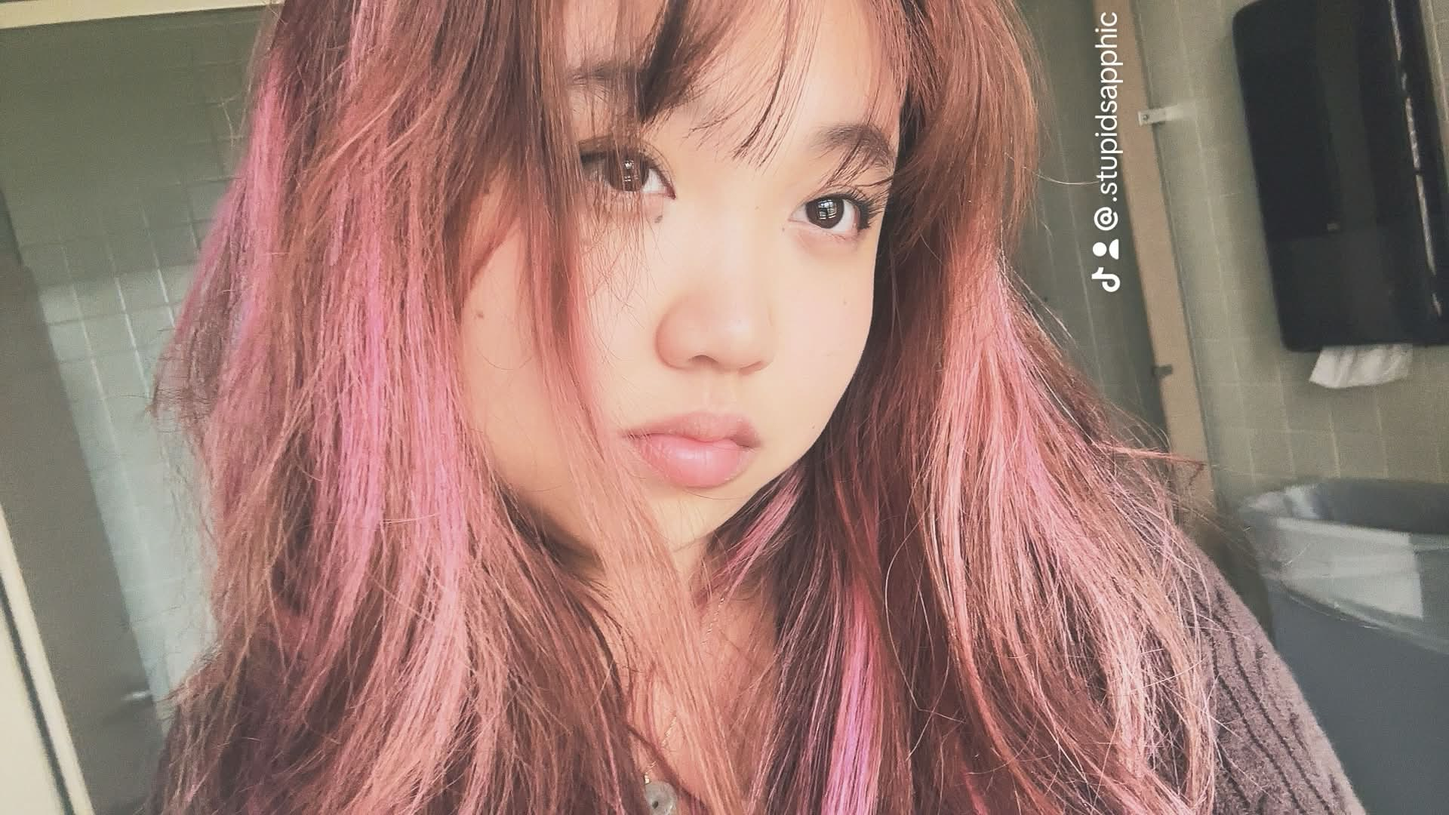
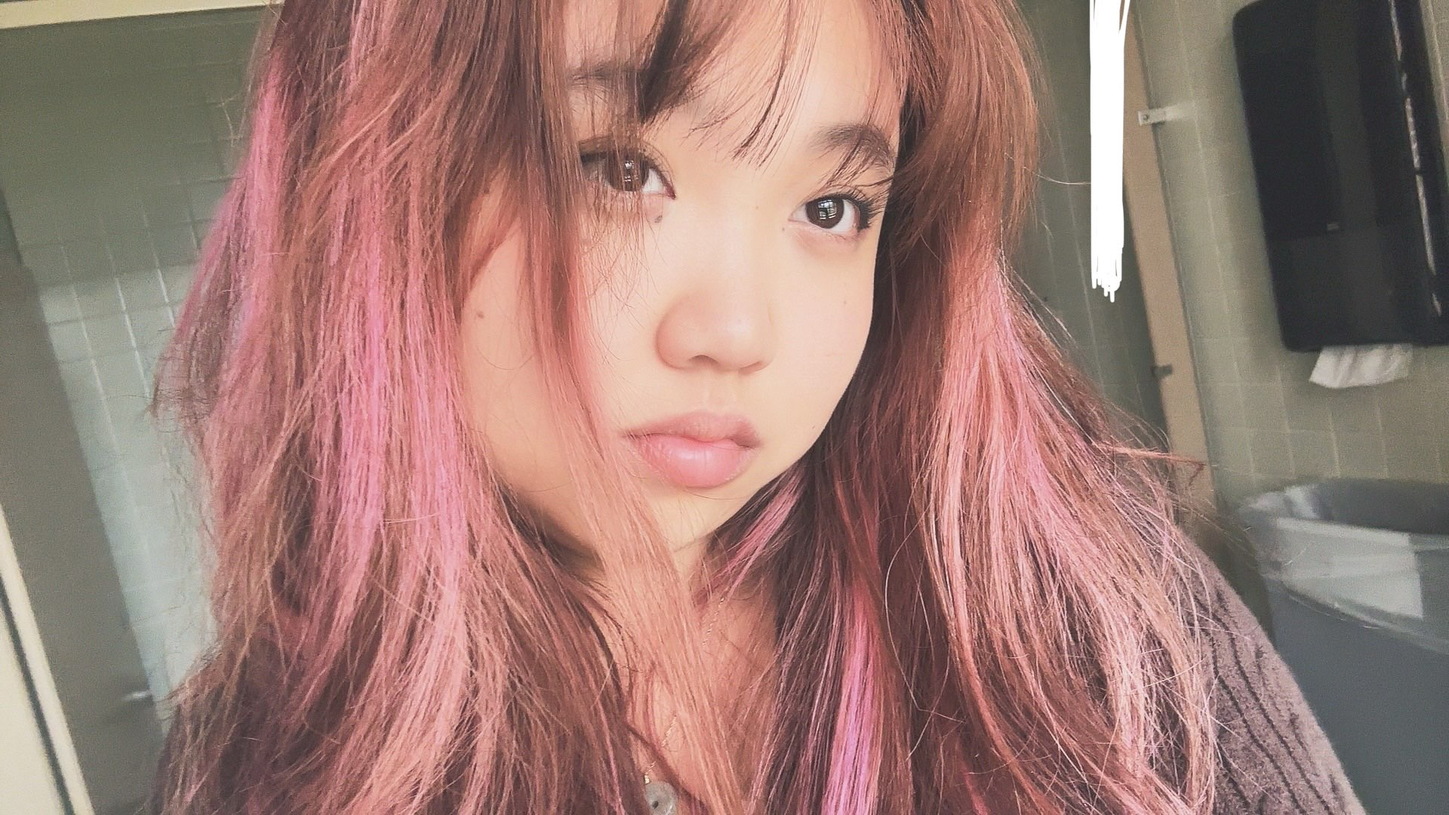
finished work 1: scam awareness website
writeup & images, changed popup to have clickthrough buttons instead of scrolling

Changed region(s): [[0.75, 0.0, 0.7812, 0.3667]]

diff --git a/assets/js/sketchbook.js b/assets/js/sketchbook.js
@@ -82,31 +82,134 @@
         ? el('p', { class: 'tags' }, project.tags.map(tag => el('span', {}, tag))) : null));
   }
 
+  // Chapter-style case study: keep each part compact, browsable and editable.
+  // w.media accepts { overview: [{src, alt, caption}], problem: [...], ... }.
+  // Older projects with only overview/problem/process/outcome still work.
   function openWriteup(project) {
     const w = project.writeup || {};
+    const chapters = [
+      ['overview', 'Overview', 'the big picture'],
+      ['problem', 'Problem', 'what we discovered'],
+      ['process', 'Process', 'from research to design'],
+      ['solution', 'Solution', 'the experience we designed'],
+      ['outcome', 'Outcomes', 'reflections & next steps']
+    ].filter(([key]) => Boolean(w[key] || (w.media && w.media[key]?.length)));
+    if (!chapters.length) chapters.push(['overview', 'Overview', 'a closer look']);
+
+    const resources = Object.entries(project.resources || {})
+      .filter(([key]) => ['proposal', 'presentation'].includes(key))
+      .map(([key, target]) => target
+        ? el('a', { class: 'writeup-resource hand', href: target,
+            ...( /^https?:\/\//i.test(target) ? {target: '_blank', rel: 'noopener noreferrer'} : {}) },
+            `view ${key} ↗`)
+        : el('span', { class: 'writeup-resource unavailable hand',
+            title: `Add the ${key} URL in portfolio-data.js` }, `view ${key} · link coming soon`));
+
+    const tabs = [];
+    const panels = [];
+    const progress = el('span', { class: 'case-counter', 'aria-live': 'polite' }, '01 / 05');
+    const progressBar = el('span', { class: 'case-progress-fill', 'aria-hidden': 'true' });
+    const backButton = el('button', { type: 'button', class: 'case-step-button hand' }, '← previous');
+    const nextButton = el('button', { type: 'button', class: 'case-step-button case-next hand' }, 'next page →');
+    const main = el('div', { class: 'case-main' });
+    let activeStep = 0;
+
+    const paragraphs = value => String(value || '').trim().split(/\n\s*\n/)
+      .map(text => text.trim()).filter(Boolean)
+      .map(text => el('p', { class: 'case-paragraph' }, text));
+
+    const imageNode = (im, index) => {
+      const item = typeof im === 'string' ? { src: im } : im || {};
+      const empty = () => el('div', { class: 'case-image-empty' },
+        el('img', { src: sticker('coral-flower'), alt: '', 'aria-hidden': 'true' }),
+        el('span', { class: 'hand' }, 'add a project image'));
+      return el('figure', { class: 'case-figure' },
+        item.src ? el('img', { src: item.src, alt: item.alt || `Project illustration ${index + 1}`,
+          loading: 'lazy', onerror: event => event.currentTarget.replaceWith(empty()) }) : empty(),
+        item.caption ? el('figcaption', { class: 'hand' }, item.caption) : null);
+    };
+
+    for (const [index, [key, title, overline]] of chapters.entries()) {
+      const tab = el('button', { type: 'button', class: 'case-tab hand', role: 'tab',
+        id: `case-tab-${index}`, 'aria-controls': `case-panel-${index}` },
+        el('span', { class: 'case-tab-number' }, String(index + 1).padStart(2, '0')),
+        title);
+      tabs.push(tab);
+      const media = (w.media && w.media[key]) || (key === 'outcome' ? (w.images || []) : []);
+      const highlights = (w.highlights && w.highlights[key]) || [];
+      const copy = el('div', { class: 'case-copy' },
+        el('p', { class: 'case-overline hand' }, overline),
+        el('h3', { class: 'case-section-title serif' }, title.toLowerCase()),
+        ...paragraphs(w[key] || ''));
+      const stats = highlights.length ? el('div', { class: 'case-highlights' },
+        highlights.map(h => el('div', { class: 'case-highlight' },
+          el('strong', { class: 'serif' }, h.value || ''), el('span', {}, h.label || '')))) : null;
+      const rightColumn = (media.length || stats) ? el('div', { class: 'case-visual-column' },
+        media.length ? el('div', { class: `case-gallery ${media.length > 1 ? 'multiple' : ''}` },
+          media.map(imageNode)) : null,
+        stats) : null;
+      const content = el('div', { class: `case-layout ${rightColumn ? 'has-media' : ''}` },
+        copy,
+        rightColumn);
+      const panel = el('section', { class: 'case-panel', id: `case-panel-${index}`,
+        role: 'tabpanel', 'aria-labelledby': `case-tab-${index}` }, content);
+      panels.push(panel);
+    }
+
+    function setStep(index, moveFocus = false) {
+      activeStep = Math.max(0, Math.min(index, chapters.length - 1));
+      tabs.forEach((tab, i) => {
+        const active = i === activeStep;
+        tab.setAttribute('aria-selected', String(active));
+        tab.tabIndex = active ? 0 : -1;
+        panels[i].hidden = !active;
+      });
+      progress.textContent = `${String(activeStep + 1).padStart(2, '0')} / ${String(chapters.length).padStart(2, '0')}`;
+      progressBar.style.width = `${100 * (activeStep + 1) / chapters.length}%`;
+      backButton.disabled = activeStep === 0;
+      nextButton.textContent = activeStep === chapters.length - 1 ? 'finish reading ✓' : 'next page →';
+      main.scrollTop = 0;
+      if (moveFocus) tabs[activeStep].focus({ preventScroll: true });
+    }
+    tabs.forEach((tab, i) => {
+      tab.addEventListener('click', () => setStep(i));
+      tab.addEventListener('keydown', event => {
+        if (event.key === 'ArrowRight' || event.key === 'ArrowLeft') {
+          event.preventDefault();
+          setStep((i + (event.key === 'ArrowRight' ? 1 : -1) + chapters.length) % chapters.length, true);
+        }
+        if (event.key === 'Home' || event.key === 'End') {
+          event.preventDefault();
+          setStep(event.key === 'Home' ? 0 : chapters.length - 1, true);
+        }
+      });
+    });
+    backButton.addEventListener('click', () => setStep(activeStep - 1));
+    nextButton.addEventListener('click', () => {
+      if (activeStep === chapters.length - 1) dialog.close();
+      else setStep(activeStep + 1);
+    });
+    main.append(...panels);
+    dialog.classList.add('case-dialog');
     dialog.replaceChildren(
-      el('button', { type: 'button', class: 'dialog-close hand', onclick: () => dialog.close(),
-        'aria-label': 'Close project write-up' }, 'close ×'),
-      el('p', { class: 'meta hand' }, `${project.role} · ${project.year}`),
-      el('h2', { class: 'serif' }, project.title),
-      ...(project.resources ? [el('div', { class: 'writeup-resources', 'aria-label': 'Project documents' },
-        ...[['proposal', 'view proposal'], ['presentation', 'view presentation']].map(([key, label]) => {
-          const target = project.resources[key];
-          return target
-            ? el('a', { class: 'writeup-resource hand', href: target,
-                ...( /^https?:\/\//i.test(target) ? { target: '_blank', rel: 'noopener noreferrer' } : {} ) }, label + ' ↗')
-            : el('span', { class: 'writeup-resource unavailable hand',
-                title: 'Add the ' + key + ' link in assets/js/portfolio-data.js' }, label + ' · link coming soon');
-        }))] : []),
-      ...[
-        ['overview', 'overview'], ['problem', 'the problem'],
-        ['process', 'the process'], ['outcome', 'the outcome']
-      ].flatMap(([key, title]) => w[key]
-        ? [el('h3', { class: 'hand' }, title), el('p', { class: 'writeup-text' }, w[key])] : []),
-      ...(w.images || []).map(im => el('figure', {},
-        el('img', { src: im.src, alt: im.alt || '' }),
-        im.caption ? el('figcaption', { class: 'hand' }, im.caption) : null))
-    );
+      el('div', { class: 'case-shell' },
+        el('header', { class: 'case-header' },
+          el('div', { class: 'case-topline' },
+            el('span', { class: 'case-eyebrow hand' }, 'from the sketchbook / case study'),
+            el('button', { type: 'button', class: 'case-close hand',
+              'aria-label': 'Close project case study', onclick: () => dialog.close() }, 'close ×')),
+          el('h2', { class: 'case-title serif' }, project.title),
+          el('div', { class: 'case-header-bottom' },
+            el('p', { class: 'case-meta hand' }, [project.role, project.year].filter(Boolean).join(' · ')),
+            resources.length ? el('div', { class: 'writeup-resources' }, ...resources) : null)),
+        el('nav', { class: 'case-tabs', role: 'tablist', 'aria-label': 'Case study chapters' }, ...tabs),
+        main,
+        el('footer', { class: 'case-footer' },
+          backButton,
+          el('div', { class: 'case-progress' }, progress,
+            el('span', { class: 'case-progress-track' }, progressBar)),
+          nextButton)));
+    setStep(0);
     if (!dialog.open) dialog.showModal();
   }
 

diff --git a/assets/css/sketchbook.css b/assets/css/sketchbook.css
@@ -986,3 +986,118 @@ a.writeup-resource:focus-visible { outline: 2px solid var(--rust); outline-offse
   .leadership-photo-grid { grid-template-columns: repeat(2, minmax(0, 1fr)); }
   .leadership-photo-grid .leadership-photo:nth-child(3) { grid-column: span 2; max-width: 55%; justify-self: center; }
 }
+
+/* v15 — paged case-study scrapbook; only the content area scrolls. */
+#writeup.case-dialog {
+  width: min(96vw, 1060px);
+  height: min(91dvh, 820px);
+  max-height: 91dvh;
+  padding: 0;
+  overflow: hidden;
+  border: 1px solid rgba(142, 91, 65, .17);
+  border-radius: 8px;
+  background: var(--grain), #fffaf2;
+}
+.case-shell { display: flex; flex-direction: column; height: 100%; min-height: 0; }
+.case-header { flex: 0 0 auto; padding: 22px clamp(20px, 3.6vw, 42px) 10px; }
+.case-topline { display: flex; justify-content: space-between; align-items: center; gap: 20px; }
+.case-eyebrow { color: var(--rust); font-size: 1.43rem; line-height: 1; }
+.case-close { color: var(--rust); padding: 3px 12px; border: 1px dashed rgba(159,76,57,.7);
+  background: #fff9ef; cursor: pointer; font-size: 1.42rem; line-height: 1.1; }
+.case-close:hover { background: #f7e7dc; }
+#writeup .case-title { font-size: clamp(2.35rem, 4.5vw, 4.15rem); line-height: .97;
+  font-weight: 500; margin: 8px 0 8px; letter-spacing: -.035em; }
+.case-header-bottom { display: flex; justify-content: space-between; align-items: center; gap: 14px; flex-wrap: wrap; }
+.case-meta { color: var(--muted); font-size: 1.43rem; }
+#writeup .writeup-resources { margin: 0; gap: 8px; }
+#writeup .writeup-resource { padding: 5px 11px; font-size: 1.22rem; white-space: nowrap; }
+.case-tabs { display: flex; flex: 0 0 auto; gap: 9px; overflow-x: auto; padding: 12px clamp(20px, 3.6vw, 42px) 11px;
+  border-bottom: 1px solid rgba(159,76,57,.18); scrollbar-width: thin; }
+.case-tab { display: inline-flex; gap: 6px; align-items: baseline; flex: 1 0 auto; justify-content: center;
+  color: #866e62; min-width: 91px; font-size: 1.38rem; padding: 6px 11px;
+  border: 1px solid transparent; background: transparent; cursor: pointer; border-radius: 3px; white-space: nowrap; }
+.case-tab:hover { color: var(--rust); background: rgba(232,196,181,.18); }
+.case-tab[aria-selected="true"] { color: var(--rust); background: #f7e6d9;
+  border-color: rgba(159,76,57,.28); }
+.case-tab-number { font-family: 'DM Sans', system-ui, sans-serif; font-size: .64rem; letter-spacing: .07em; }
+.case-main { flex: 1 1 auto; min-height: 0; overflow-y: auto; overscroll-behavior: contain;
+  padding: clamp(18px, 2.6vw, 30px) clamp(20px, 3.6vw, 42px) 18px; }
+.case-panel[hidden] { display: none !important; }
+.case-panel { animation: case-fade .18s ease-out; }
+@keyframes case-fade { from { opacity: .65; transform: translateY(4px) } to { opacity: 1; transform: none } }
+.case-layout { display: grid; grid-template-columns: 1fr; gap: clamp(16px, 2.7vw, 32px); align-items: start; }
+.case-layout.has-media { grid-template-columns: minmax(0, 1.05fr) minmax(0, 1fr); }
+.case-overline { color: var(--rust); font-size: 1.47rem; line-height: 1.1; }
+#writeup .case-section-title { color: var(--rust); font-size: clamp(2.75rem, 4.1vw, 4rem);
+  font-weight: 500; margin: 0 0 10px; line-height: 1; }
+.case-copy { min-width: 0; }
+#writeup .case-paragraph { font: 400 .93rem/1.62 'DM Sans', system-ui, sans-serif;
+  white-space: pre-line; color: #473b34; max-width: 65ch; margin: 0 0 13px; }
+.case-copy .case-paragraph:first-of-type { font-weight: 500; }
+.case-visual-column { min-width: 0; display: flex; flex-direction: column; gap: 16px; }
+.case-gallery { display: grid; grid-template-columns: 1fr; align-content: start; min-width: 0; gap: 13px; }
+.case-gallery.multiple { grid-template-columns: repeat(2, minmax(0, 1fr)); }
+#writeup .case-figure { min-width: 0; margin: 0; padding: 10px 10px 8px; background: #fffefa;
+  border: 1px solid rgba(139,94,68,.13); box-shadow: 0 9px 22px rgba(89,62,47,.13); }
+#writeup .case-figure:nth-child(2) { transform: rotate(1deg); }
+#writeup .case-figure img { display: block; width: 100%; max-height: 324px; height: auto; object-fit: contain;
+  border-radius: 1px; }
+#writeup .case-gallery.multiple .case-figure img { max-height: 270px; }
+#writeup .case-figure figcaption { color: var(--muted); font-size: 1.22rem; line-height: 1.12;
+  text-align: center; margin-top: 6px; }
+.case-image-empty { display: flex; flex-direction: column; align-items: center; justify-content: center;
+  gap: 8px; aspect-ratio: 4/3; background: #f5e6df; }
+.case-image-empty img { width: 28%; max-height: 95px; object-fit: contain; }
+.case-image-empty span { color: var(--muted); font-size: 1.2rem; }
+.case-highlights { display: flex; gap: 10px; flex-wrap: wrap; margin-top: 0; }
+.case-highlight { display: flex; flex-direction: column; gap: 0; padding: 10px 14px; min-width: 110px;
+  background: #f5e9db; border-left: 2px solid var(--coral); }
+.case-highlight strong { color: var(--rust); font-size: 2.2rem; font-weight: 600; line-height: 1; }
+.case-highlight span { max-width: 158px; font-size: .69rem; line-height: 1.35; color: var(--muted); }
+.case-footer { flex: 0 0 auto; display: flex; justify-content: space-between; align-items: center;
+  gap: 18px; padding: 14px clamp(20px, 3.6vw, 42px) 17px;
+  background: #f9f0e6; border-top: 1px solid rgba(159,76,57,.17); }
+.case-step-button { cursor: pointer; border: 1px dashed rgba(159,76,57,.7); color: var(--rust);
+  background: #fffaf2; min-width: 116px; font-size: 1.38rem; line-height: 1.15; padding: 7px 13px; }
+.case-step-button:hover:not(:disabled) { background: #f5dfd2; }
+.case-step-button:disabled { opacity: .35; cursor: default; }
+.case-next { background: #eecfbf; }
+.case-progress { display: flex; flex-direction: column; align-items: center; gap: 5px; min-width: 125px; }
+.case-counter { color: var(--muted); font-size: .72rem; letter-spacing: .13em; }
+.case-progress-track { position: relative; display: block; background: #e6d8cd; height: 3px;
+  width: 100%; border-radius: 12px; overflow: hidden; }
+.case-progress-fill { display: block; height: 100%; background: var(--rust); transition: width .2s ease; }
+@media (max-width: 740px) {
+  #writeup.case-dialog { width: 96vw; height: 91dvh; }
+  .case-header { padding: 16px 20px 9px; }
+  #writeup .case-title { font-size: clamp(2.35rem, 8.5vw, 3.2rem); }
+  .case-tabs { padding: 9px 16px; justify-content: flex-start; gap: 3px; }
+  .case-tab { min-width: auto; font-size: 1.26rem; padding: 6px 9px; }
+  .case-main { padding: 18px 20px; }
+  .case-layout.has-media { grid-template-columns: 1fr; }
+  .case-gallery.multiple { grid-template-columns: repeat(2, minmax(0, 1fr)); }
+  #writeup .case-figure img { max-height: 260px; }
+  .case-footer { padding: 12px 17px; }
+  .case-step-button { min-width: 95px; padding: 7px 9px; font-size: 1.25rem; }
+  .case-progress { min-width: 60px; max-width: 80px; }
+}
+@media (max-width: 420px) {
+  #writeup .case-title { font-size: 2.38rem; }
+  .case-meta { font-size: 1.15rem; }
+  #writeup .writeup-resource { font-size: 1.06rem; }
+  .case-tabs { padding: 8px 12px; }
+  .case-header { padding: 12px 15px 7px; }
+  .case-main { padding: 15px; }
+  #writeup .case-paragraph { font-size: .88rem; }
+  .case-footer { gap: 8px; }
+}
+@media (prefers-reduced-motion: reduce) {
+  .case-panel { animation: none; }
+  .case-progress-fill { transition: none; }
+}
+/* All chapters fit on a narrow phone, rather than hiding the last tabs offscreen. */
+@media (max-width: 520px) {
+  .case-tabs { gap: 2px; padding-inline: 9px; overflow-x: visible; }
+  .case-tab { flex: 1 1 0; min-width: 0; padding: 7px 2px; font-size: 1.03rem; }
+  .case-tab-number { display: none; }
+}

diff --git a/assets/js/portfolio-data.js b/assets/js/portfolio-data.js
@@ -50,7 +50,7 @@ window.PORTFOLIO = {
       id: "work-one",
       title: "Scam Awareness Campaign Website",
       role: "Project Manager & UI/UX Lead",
-      year: "2024",
+      year: "2025",
       summary: "Designed a website UI in partnership with the Santa Clara County District Attorney's Office to educate users about online scams and provide resources for scam prevention.",
       image: "assets/images/scda office commendation and recognition.jpg",
       imageAlt: "",
@@ -64,14 +64,51 @@ window.PORTFOLIO = {
       tone: "peach",
       featured: true,
       writeup: {
-        overview:
-          "[ Introduce the project: who it’s for, why it matters, and what you designed. ]",
-        problem:
-          "[ What challenge did you set out to solve? What did you learn from people? ]",
-        process:
-          "[ Share your research, sketches, decisions, iterations, and testing. ]",
-        outcome:
-          "[ Explain what changed, what you learned, and what you would do next. ]",
+        overview: `How can we make online scam prevention resources more accessible for people of all ages and levels of technological literacy?
+
+In today's digital age, online scams are becoming increasingly sophisticated, yet trustworthy information isn't always easy to find, especially for those with lower levels of digital literacy.
+
+As Project Lead on a four-person team, I coordinated our research and development process, organized interview findings and our written proposal, and headed the design of the website interface. We worked with the Santa Clara County District Attorney's Office to explore an accessible, easy-to-navigate scam awareness resource for local residents. Our overarching goal was to make prevention feel less overwhelming and more approachable.`,
+        problem: `People were concerned about scams, but didn't know where to turn for help.
+
+Through interviews with stakeholders ranging from teenagers to seniors, we identified three recurring challenges: high concern but low awareness of resources, scattered or unreliable information, and accessibility barriers for people with limited technological experience.
+
+Only 15% of participants in our initial research sample were aware of existing scam-related resources. Younger interviewees were often particularly concerned about older relatives who were less comfortable with technology or weren't fluent in English.
+
+Rather than simply building another informational website, we needed to design something people could understand, trust, and navigate confidently.`,
+        process: `We conducted over 40 interviews across different age groups, spoke with online-fraud professionals, and regularly met with a community prosecutor specializing in crime prevention. I helped organize our interview data and proposal so the team could find patterns and turn research into design priorities.
+
+We used an ideation exercise called “Worst Idea Ever” to explore unexpected directions before narrowing our ideas. I headed the website's interface design, starting with a landing-page prototype that made the website's purpose and scam categories easy to find. Teammates explored features such as quizzes, victim testimonies, and scam updates.
+
+After creating paper sketches and digital mockups, we developed a working Wix prototype and returned to users for feedback. Their responses pushed us toward clearer categories, shorter descriptions, accessible guidance, prominent emergency resources, and more engaging visuals without unnecessary complexity.`,
+        solution: `Our prototype brought information about four scam categories into one approachable experience: phishing, pig butchering, romance scams, and extortion.
+
+Each category used a consistent format to explain the scam, explain the warning signs, share protection tips, and point visitors toward next steps and relevant resources. We also included a victim testimonies section to show that scams can affect anyone.
+
+For the homepage, I focused on introducing the resource clearly and making navigation feel intuitive. Features we explored included a walkthrough video, larger text, translations, and text-to-speech support. The goal was for people with different levels of technical confidence to find help without feeling overwhelmed.`,
+        outcome: `65% of interviewed participants indicated that a resource like ours would be useful to them or someone they knew. Their feedback reinforced the value of a centralized, clearly organized website.
+
+Our team developed a website prototype and presented the research, design decisions, and proposed implementation plan to representatives of the Santa Clara County District Attorney's Office and San Jose Police Department. I helped organize and co-author the written proposal, including our findings, design rationale, and next steps.
+
+This project taught me how important it is to organize research thoughtfully, establish clear priorities and team communication, and turn qualitative feedback into design decisions. But most importantly, I learned that thoughtful design doesn't have to be complex. Sometimes, making information easier to understand is what helps people feel confident enough to use it.`,
+        highlights: {
+          problem: [
+            { value: '40+', label: 'user interviews conducted' },
+            { value: '85%', label: 'initial participants unaware of scam resources' },
+          ],
+          outcome: [{ value: '65%', label: 'participants who said the resource would be useful' }],
+        },
+        // Each section has its own editable image gallery. Add or change src/caption as needed.
+        media: {
+          overview: [{ src: 'assets/images/scam-interface-desktop.png', alt: 'Scam awareness website desktop prototype', caption: 'The central idea: an approachable, easy-to-navigate resource.' }],
+          problem: [{ src: 'assets/images/scam-research-charts.png', alt: 'Research charts comparing scam concern and awareness of resources', caption: 'Interview findings: concern about scams contrasted with low awareness of existing resources.' }],
+          process: [{ src: 'assets/images/scam-prototype-explorations.png', alt: 'Four early prototypes from Khloe, Luke, Bhavya, and Parth', caption: 'Early concept explorations from our team, including my landing-page prototype.' }],
+          solution: [
+            { src: 'assets/images/scam-interface-desktop.png', alt: 'Desktop homepage mockup for the scam awareness site', caption: 'Homepage prototype' },
+            { src: 'assets/images/scam-interface-mobile.png', alt: 'Three mobile views of the prototype', caption: 'Mobile layouts and topic pages' },
+          ],
+          outcome: [{ src: 'assets/images/scda office commendation and recognition.jpg', alt: 'Recognition from Santa Clara County for the project', caption: 'Project recognition & commendation' }],
+        },
         images: [],
       },
     },

diff --git a/index.html b/index.html
@@ -4,7 +4,7 @@
     <meta charset="utf-8" />
     <meta name="viewport" content="width=device-width, initial-scale=1" />
     <meta name="theme-color" content="#f7f0e3" />
-    <meta name="description" content="a portfolio website for khloe sakai | product design & ui/ux · 2026" />
+    <meta name="description" content="a portfolio website - khloe sakai | product design & ui/ux · 2026" />
     <title>khloe sakai · portfolio 2026</title>
     <link rel="preconnect" href="https://fonts.googleapis.com" />
     <link rel="preconnect" href="https://fonts.gstatic.com" crossorigin />

diff --git a/assets/README.md b/assets/README.md
@@ -1,6 +1,6 @@
-# My Portfolio docs
+# Portfolio Documentation!
 
-## Start here: which files should I edit?
+## Editing Files..
 
 | What you want to change | File to edit |
 | --- | --- |
@@ -19,8 +19,6 @@
 - `assets/artwork/` — the watercolor flowers, stickers, and decorative assets that are already supplied. You generally do **not** need to change these.
 - `assets/brand-icons/` — locally bundled logo SVGs such as LinkedIn and Canva.
 - `assets/resume/` — add your final PDF resume here.
-
-Paths in your data are relative to the **repository root** (the folder containing `index.html`), not relative to the JS file. Use forward slashes and **match capitalization, spaces, and file extensions exactly** (especially on GitHub Pages).
 
 ## 1. Edit a Works project
 
@@ -134,8 +132,6 @@ profile: {
 }
 ```
 
-The photostrip has **three frames**. Use `""` for a frame you haven't filled yet; it shows a watercolor illustration. The three photo paths in your current uploaded file (`flower photo 1.png`, `me  (2).jpg`, `drinks (1).jpg`) are **not included in this supplied package**. Add files with those precise names to `assets/images/`, or update the paths to your real files, to replace the placeholders. The caption under the strip is **khloe sakai · 2026**. If you want to change that *label*, it currently lives in `assets/js/sketchbook.js`.
-
 For favorite-things illustrations, edit the `favorites` array:
 
 ```js
@@ -147,7 +143,7 @@ For favorite-things illustrations, edit the `favorites` array:
 
 To add your resume, put a **real PDF** at the path in `profile.resumePdf`. If the PDF isn't there, the Download Resume link won't work.
 
-## 4. Community & Leadership popups (Alpha Gamma Delta and Lifeguard)
+## 4. Community & Leadership popups 
 
 Open **`assets/js/sketchbook-data.js` → `leadership`**. The Alpha Gamma Delta **Work Party Manager** and **Lifeguard** entries already have `popup` settings. Clicking their bulletpoint on About Me (or the role in Recruiter Mode if listed) opens a dialog containing photos, your role description, and an optional destination link.
 
@@ -204,4 +200,4 @@ node --check assets/js/sketchbook.js
 
 ## Notes
 
-This site does not require external frameworks or a database. Some software logos still load from published external URLs and use a watercolor-flower fallback if unavailable. The photo slots and first few work/passions entries may contain sample content; review all public text, dates, resume contents and contact links before publishing. Avoid uploading private documents or images you don't have permission to share.
+This site does not require external frameworks or a database. Some software logos still load from published external URLs and use a watercolor-flower element fallback if unavailable. The photo slots and first few work/passions entries may contain sample content; review all public text, dates, resume contents and contact links before publishing. Avoid uploading private documents or images you don't have permission to share.
